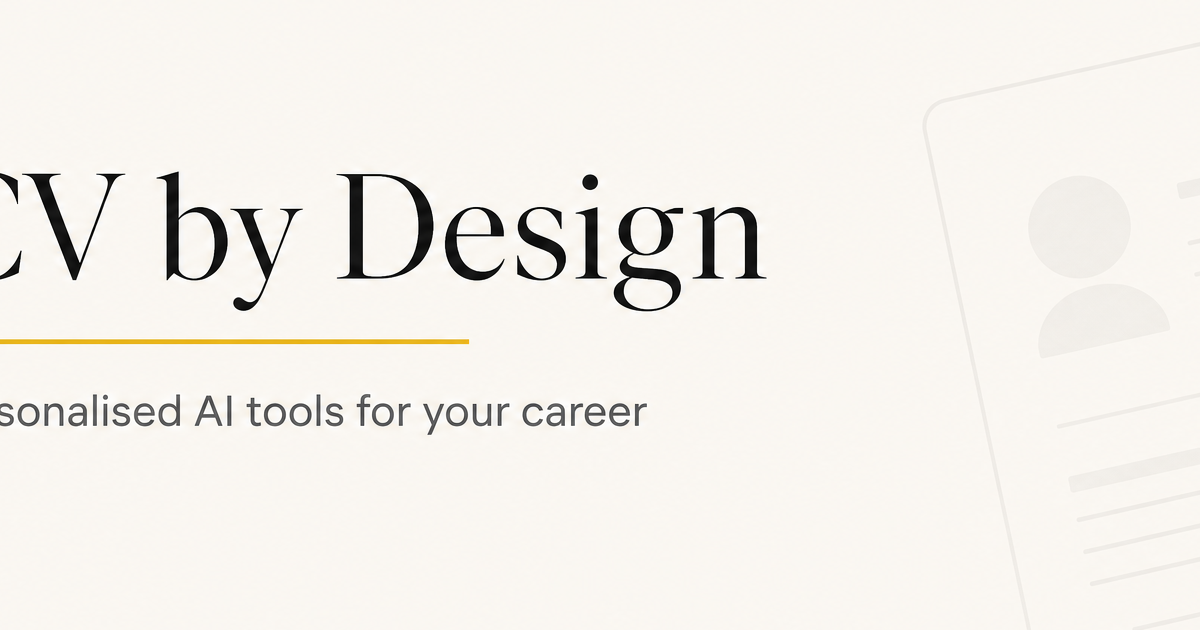
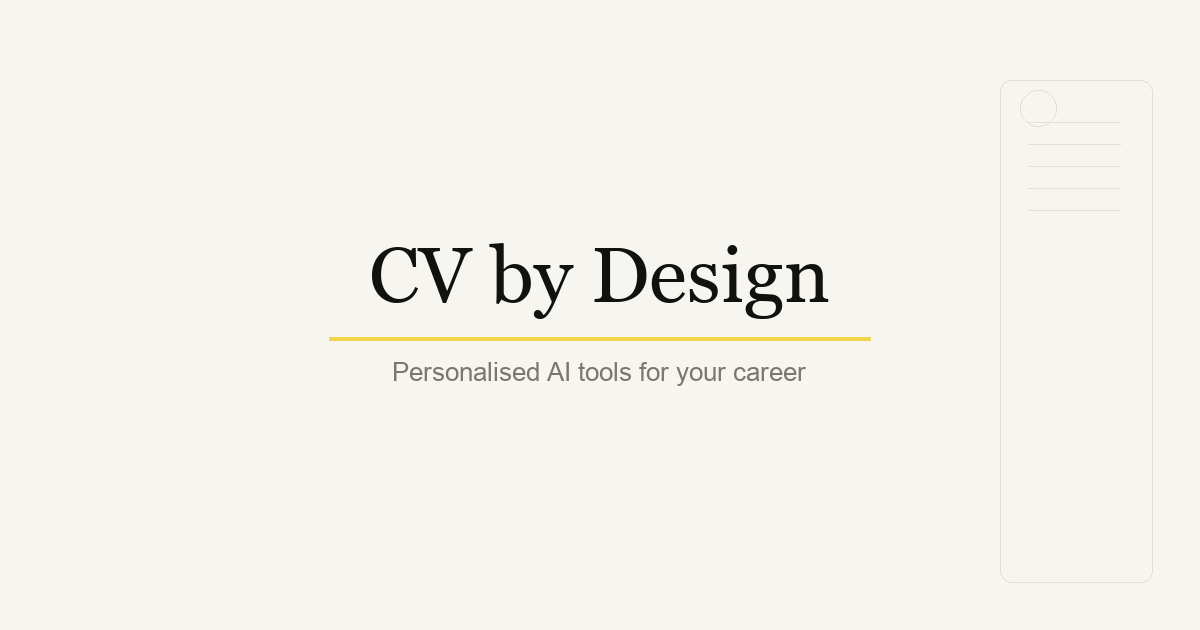
Update website

diff --git a/scripts/build_og_image.py b/scripts/build_og_image.py
@@ -1,0 +1,83 @@
+#!/usr/bin/env python3
+"""Build og-image.png (1200x630) with text in the center safe zone for WhatsApp/FB previews."""
+from pathlib import Path
+
+from PIL import Image, ImageDraw, ImageFont
+
+ROOT = Path(__file__).resolve().parents[1]
+OUT = ROOT / "og-image.png"
+
+W, H = 1200, 630
+BG = (247, 245, 240)  # --paper
+INK = (17, 18, 16)  # --ink
+MUTED = (122, 120, 110)  # --muted
+YELLOW = (240, 212, 74)  # --yellow
+
+F_TITLE = "/System/Library/Fonts/Supplemental/Georgia.ttf"
+F_SUB = "/System/Library/Fonts/Supplemental/Arial.ttf"
+
+
+def main() -> None:
+    img = Image.new("RGB", (W, H), BG)
+    draw = ImageDraw.Draw(img)
+
+    title_font = ImageFont.truetype(F_TITLE, 78)
+    sub_font = ImageFont.truetype(F_SUB, 26)
+
+    title = "CV by Design"
+    sub = "Personalised AI tools for your career"
+
+    tb = draw.textbbox((0, 0), title, font=title_font)
+    tw, th = tb[2] - tb[0], tb[3] - tb[1]
+
+    sb = draw.textbbox((0, 0), sub, font=sub_font)
+    sw, sh = sb[2] - sb[0], sb[3] - sb[1]
+
+    gap_after_title = 18
+    line_h = 3
+    gap_after_line = 22
+
+    block_h = th + gap_after_title + line_h + gap_after_line + sh
+    y0 = (H - block_h) // 2
+
+    x_title = (W - tw) // 2 - tb[0]
+    y_title = y0 - tb[1]
+    draw.text((x_title, y_title), title, font=title_font, fill=INK)
+
+    line_y = y0 + th + gap_after_title
+    line_w = min(560, max(tw, sw) + 80)
+    x1 = (W - line_w) // 2
+    draw.rectangle([x1, line_y, x1 + line_w, line_y + line_h], fill=YELLOW)
+
+    sub_y = line_y + line_h + gap_after_line - sb[1]
+    x_sub = (W - sw) // 2 - sb[0]
+    draw.text((x_sub, sub_y), sub, font=sub_font, fill=MUTED)
+
+    # Subtle right-side accent (stays clear of center text — WhatsApp crops edges most)
+    accent = Image.new("RGBA", (W, H), (0, 0, 0, 0))
+    ad = ImageDraw.Draw(accent)
+    ax0, ay0 = W - 200, 80
+    ad.rounded_rectangle(
+        [ax0, ay0, W - 48, H - 48],
+        radius=12,
+        outline=(226, 221, 214),
+        width=1,
+    )
+    for i in range(5):
+        yy = ay0 + 42 + i * 22
+        ad.line([(ax0 + 28, yy), (W - 80, yy)], fill=(226, 221, 214), width=1)
+    ax_circle = ax0 + 38
+    ay_circle = ay0 + 28
+    ad.ellipse(
+        [ax_circle - 18, ay_circle - 18, ax_circle + 18, ay_circle + 18],
+        outline=(226, 221, 214),
+        width=1,
+    )
+    img.paste(accent, (0, 0), accent)
+
+    img.save(OUT, "PNG", optimize=True)
+    print(f"Wrote {OUT} ({W}x{H})")
+
+
+if __name__ == "__main__":
+    main()